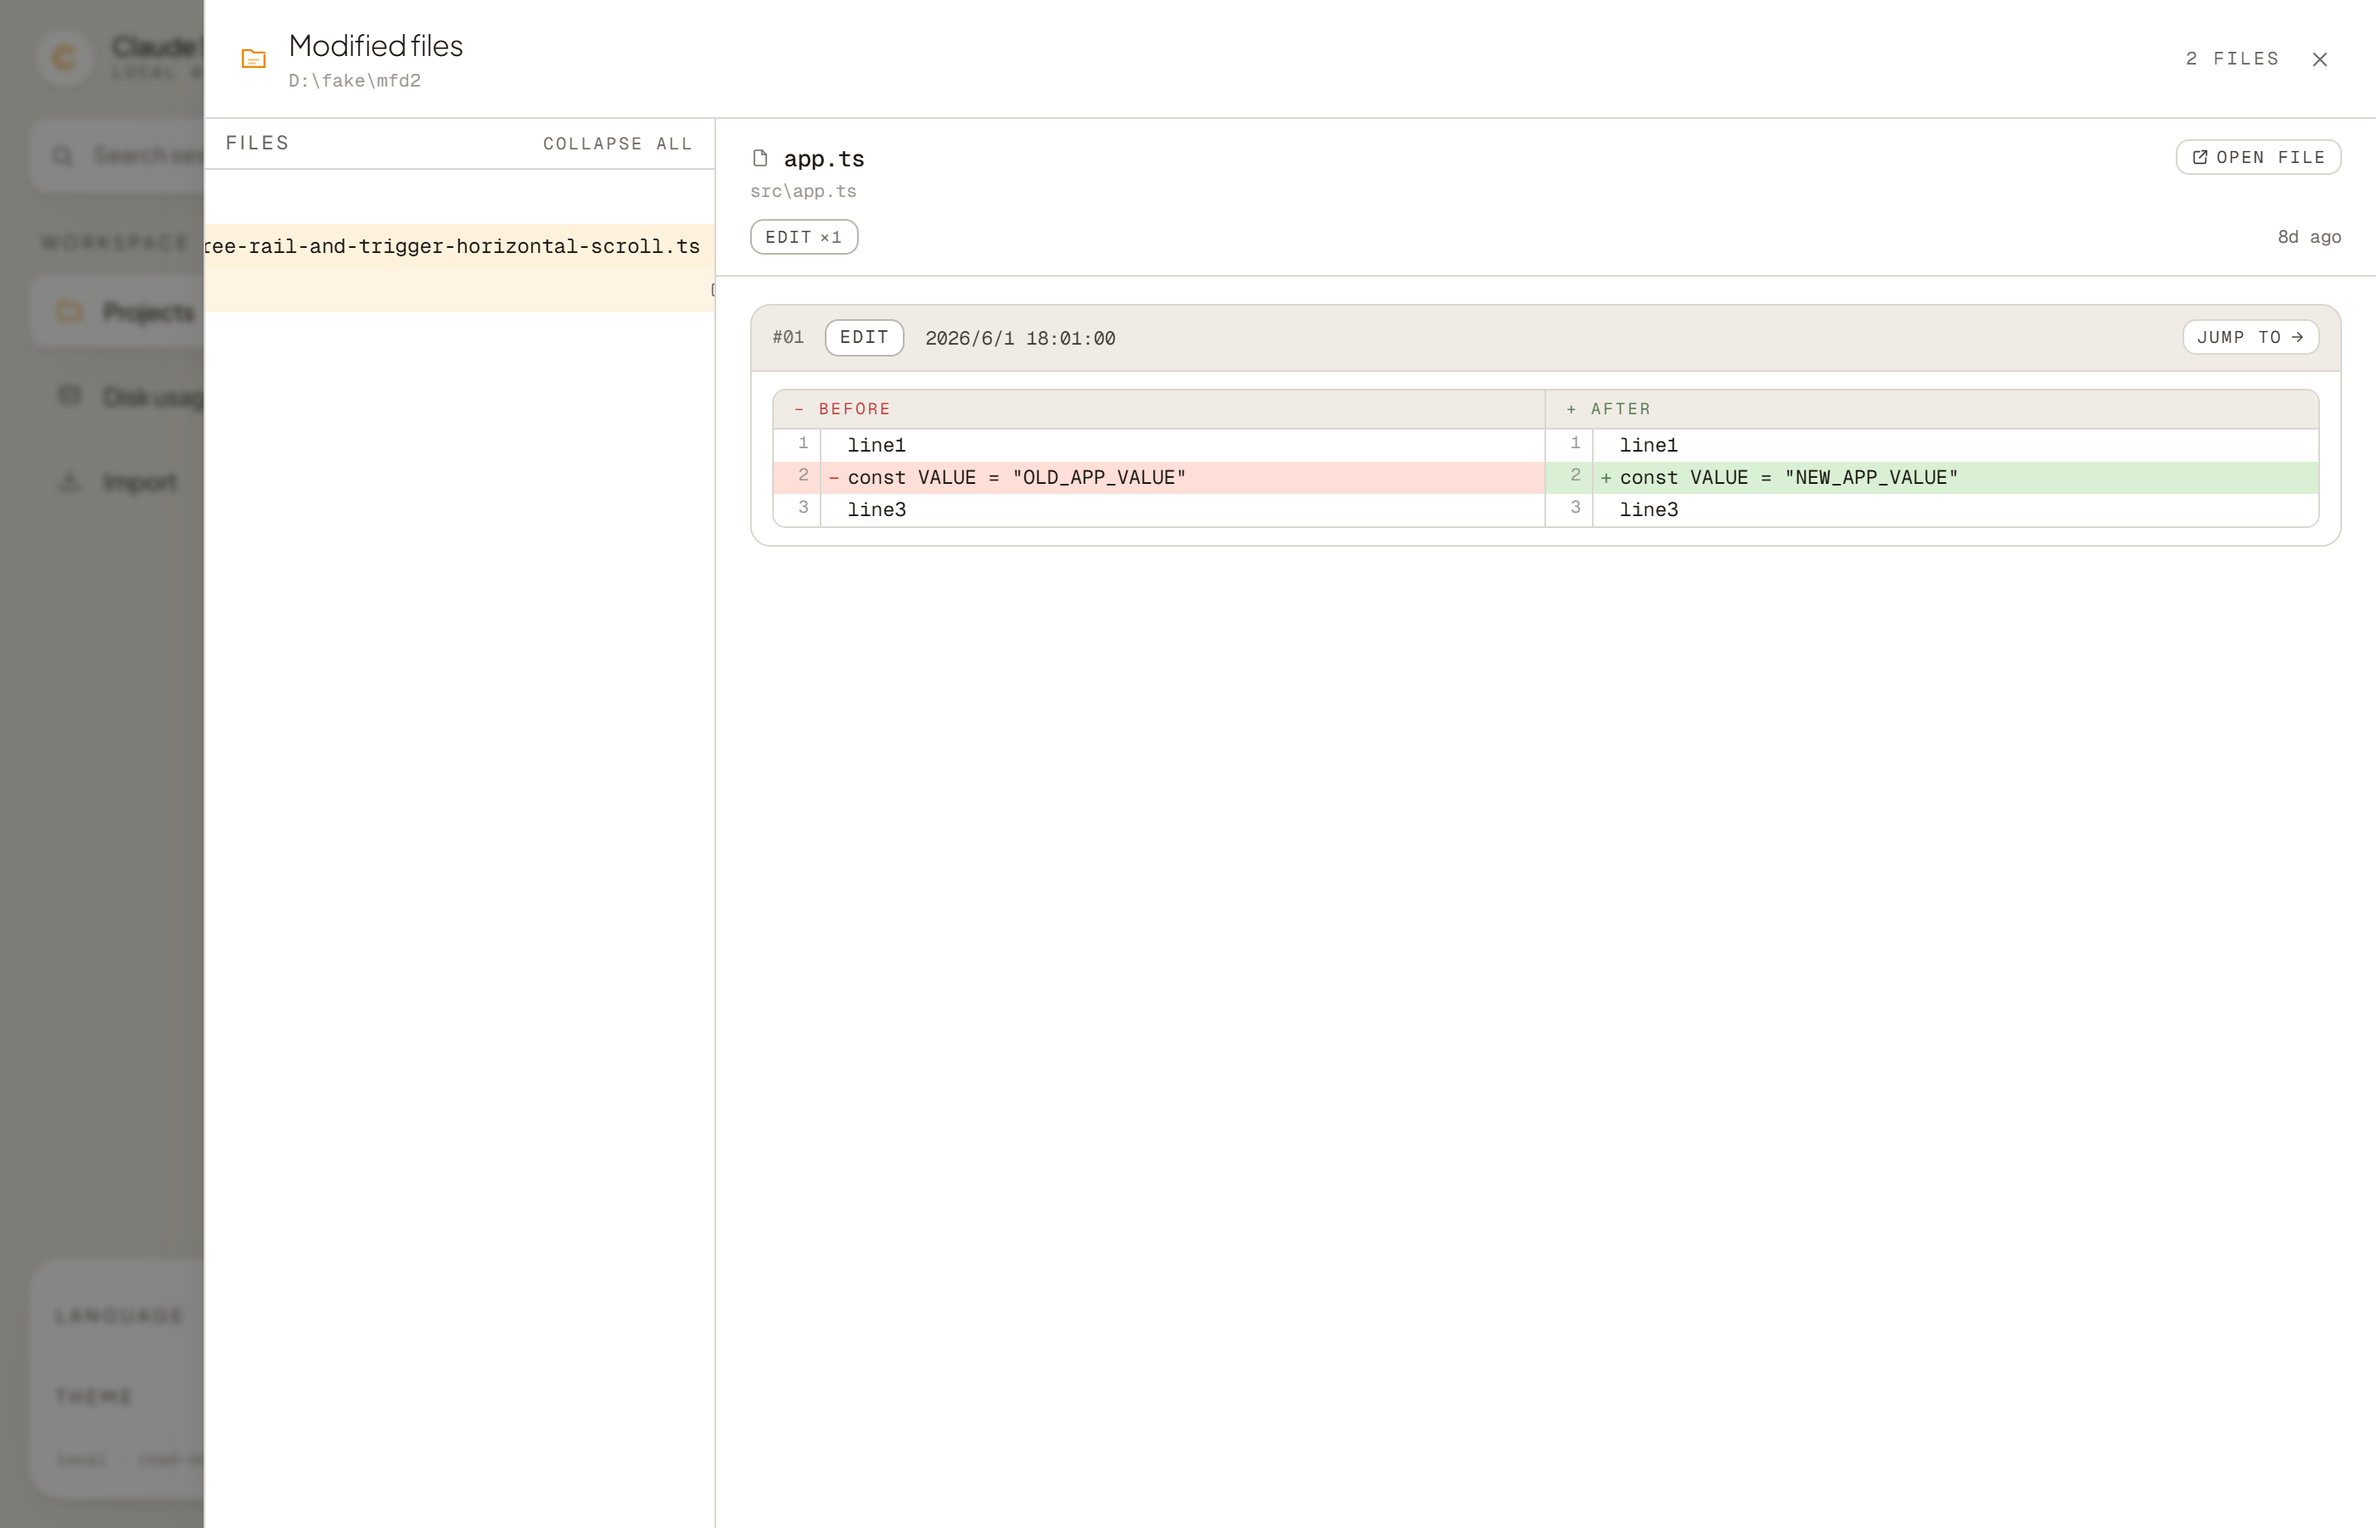
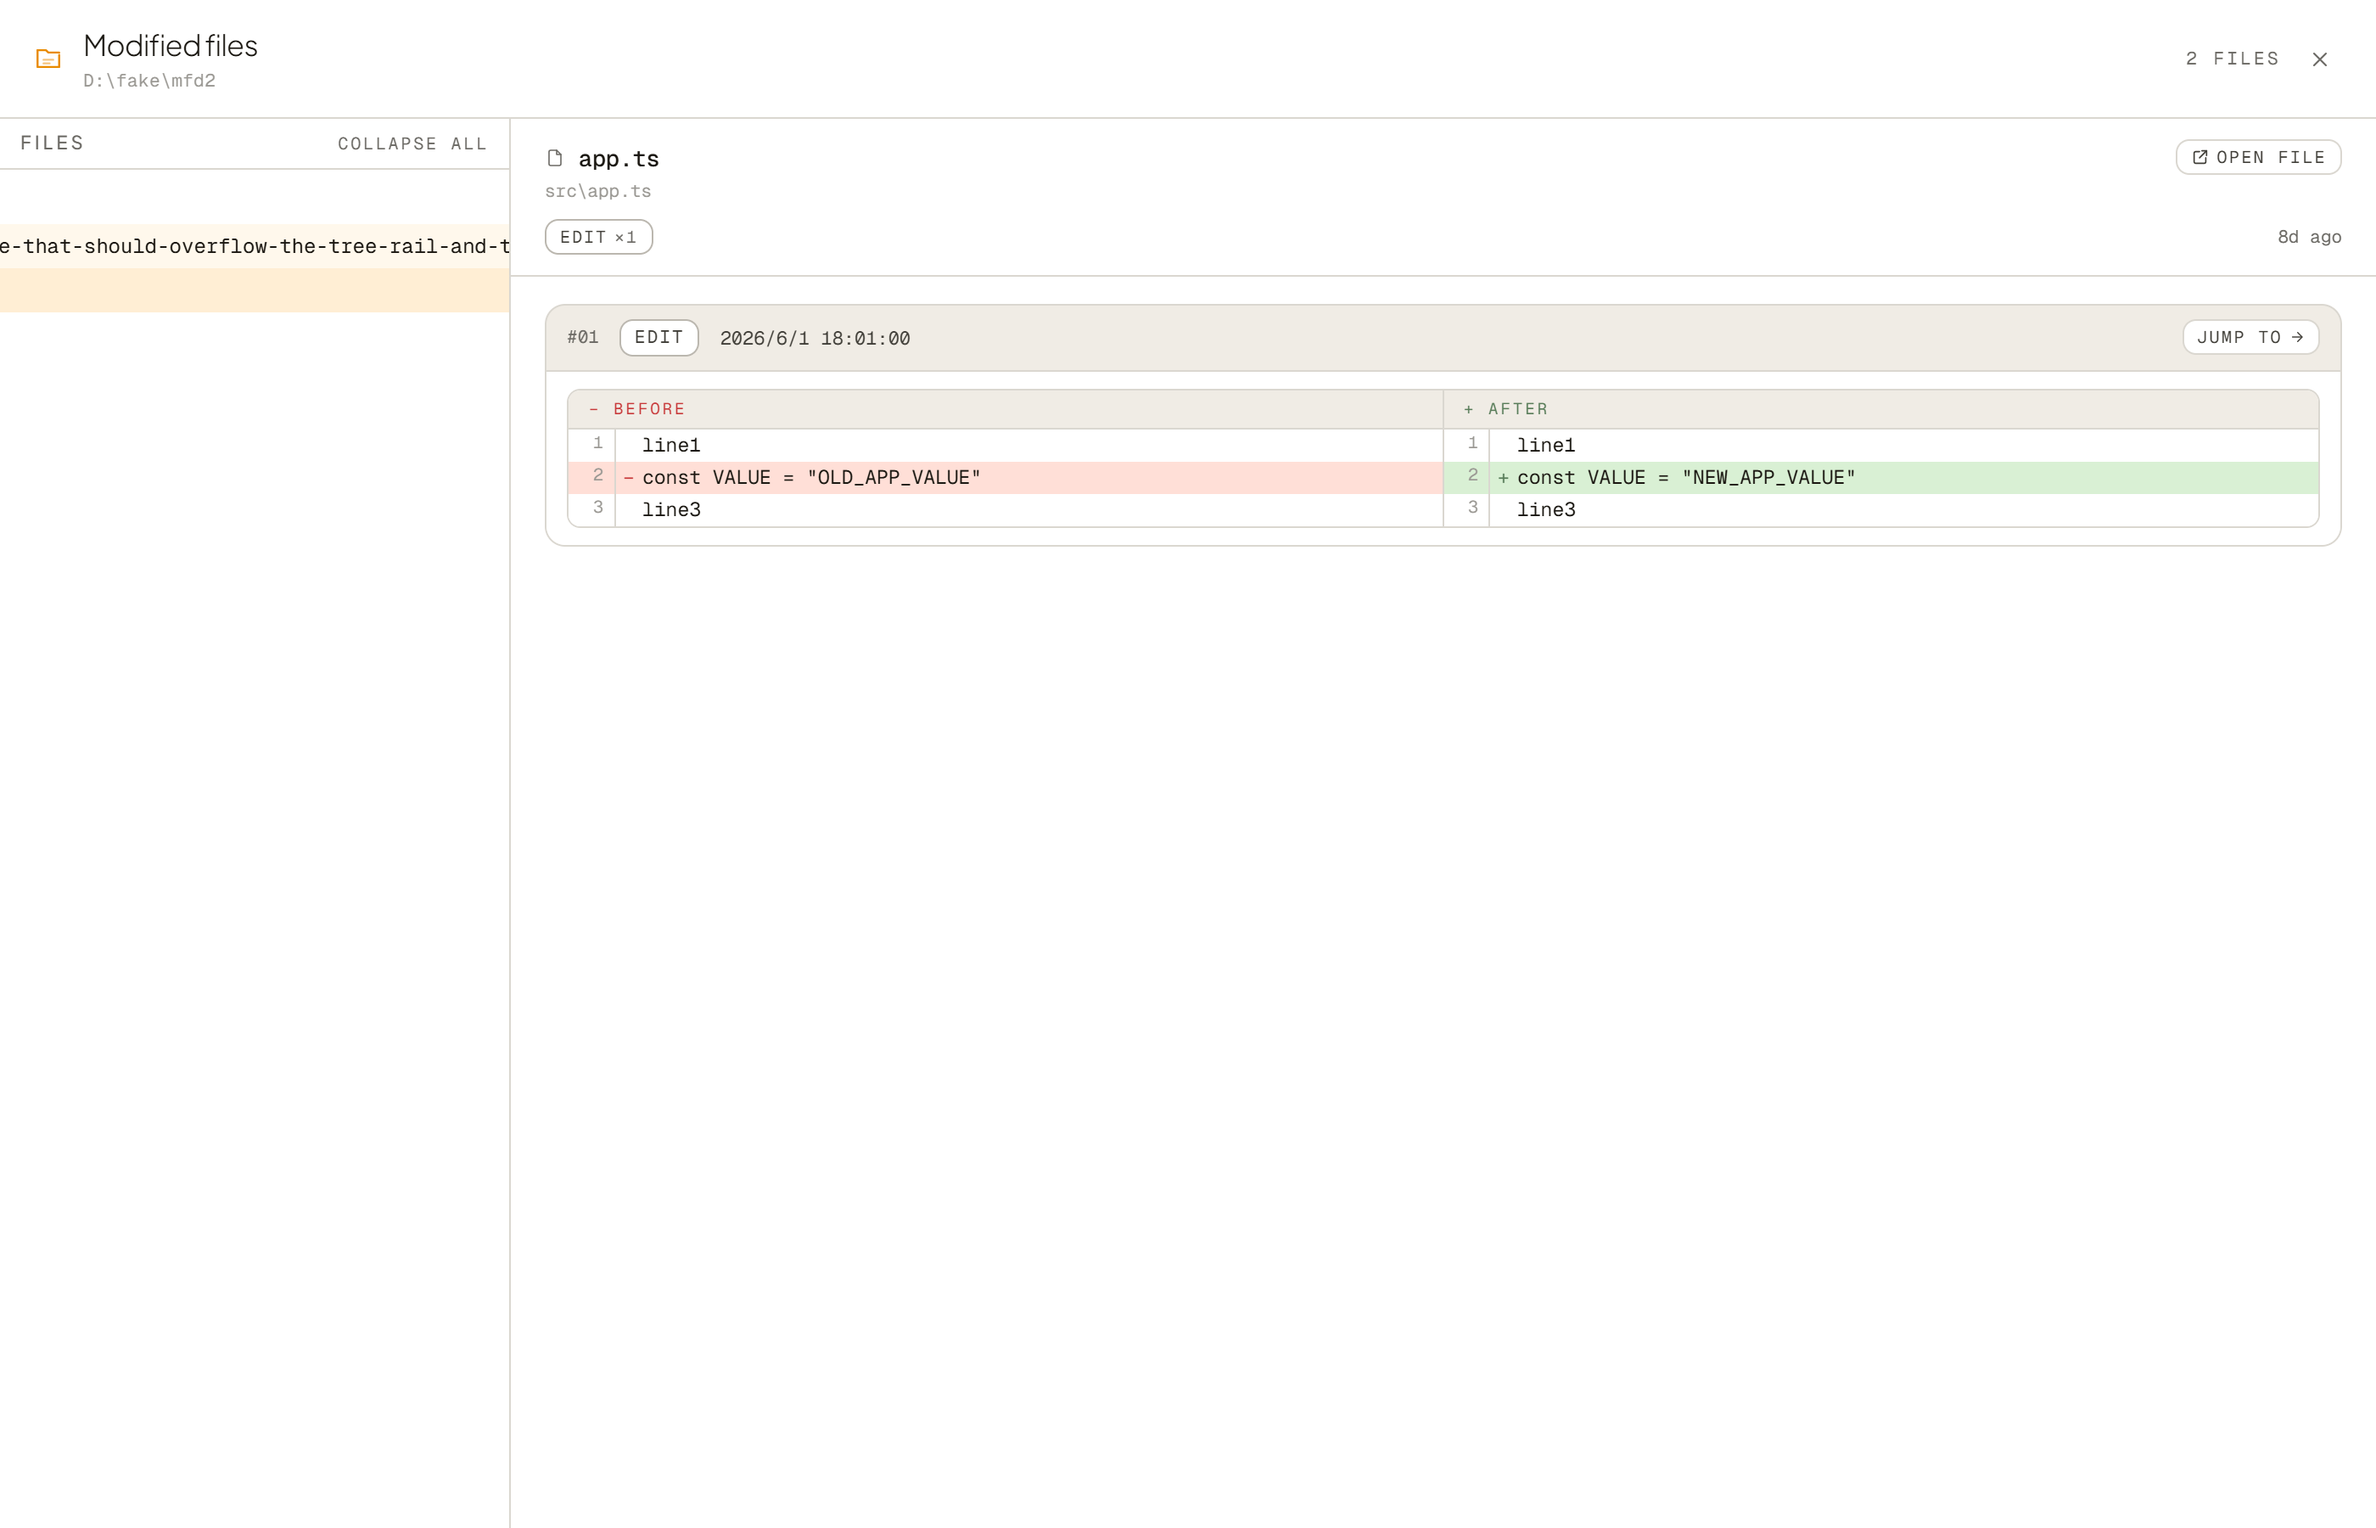
feat(session): 修改文件抽屉改为全屏铺满
inset-y-0 right-0 + w-[min(96vw,1280px)] → inset-0 + w-full（去掉多余 border-l），
抽屉直接占满整个视口，给左右 split diff 最大横向空间。

验证：build 通过；e2e 复跑 18/18 全绿，实测抽屉宽 = 视口宽 1400px；
截图 round-1/e01-split-diff.png 更新为全屏版。

Changed region(s): [[0.0, 0.0, 0.4039, 1.0], [0.5904, 0.28, 0.7768, 0.3422]]

diff --git a/web/src/components/ModifiedFilesDrawer.tsx b/web/src/components/ModifiedFilesDrawer.tsx
@@ -128,7 +128,7 @@ export default function ModifiedFilesDrawer({
         role="dialog"
         aria-modal="true"
         aria-label={t('session.modified.title')}
-        className="fixed inset-y-0 right-0 z-[60] flex w-[min(96vw,1280px)] flex-col border-l border-[var(--color-hairline)] bg-[var(--color-surface)] shadow-[var(--shadow-pop)]"
+        className="fixed inset-0 z-[60] flex w-full flex-col bg-[var(--color-surface)] shadow-[var(--shadow-pop)]"
       >
         <header className="flex items-center justify-between gap-3 border-b border-[var(--color-hairline)] px-5 py-3.5">
           <div className="flex min-w-0 items-center gap-3">
